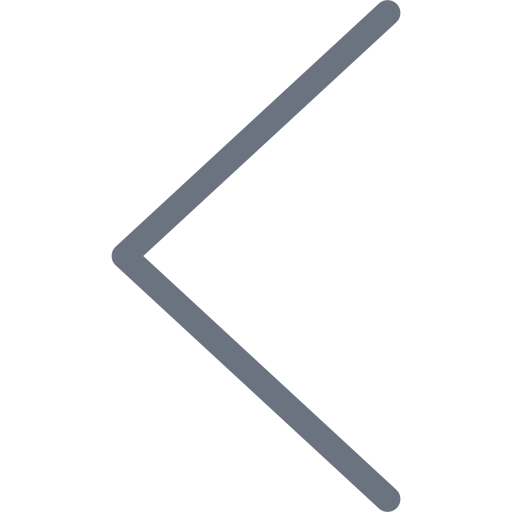
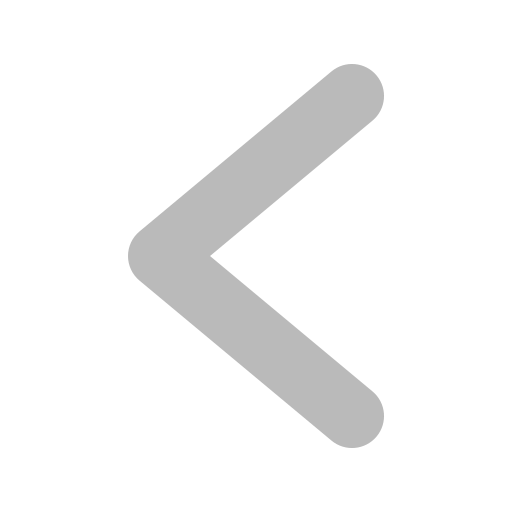
fix font and color

Changed region(s): [[0.2188, 0.0, 0.7812, 1.0]]

diff --git a/src/components/homepage/Balance.css b/src/components/homepage/Balance.css
@@ -18,10 +18,11 @@
     align-items: center;
     gap: 20px;
     font-weight: 600;
+    color: #9AA3A8;
 }
 
 .bitcoinImageDiv>p {
-    color: #a5a5ad;
+    color: #DCDCDC;
     font-weight: 600;
 }
 
@@ -32,7 +33,7 @@
 
 .btcAmt {
     margin-top: 10px;
-    color: rgb(47, 44, 44);
+    color: #5D646A;
     font-size: 24px;
 }
 
@@ -45,13 +46,13 @@
 
 .dollarAmt>h4 {
     font-size: 18px;
-    color: #a5a5ad;
+    color: #D4DADA;
     font-size: 16px;
 }
 
 .dollarAmt>div {
     padding: 2px 6px;
-    background-color: #E02626;
+    background-color: #E63262;
     border-radius: 16px;
     font-weight: 500;
     color: white;
@@ -65,7 +66,7 @@
 
 .downImage {
     width: 40px;
-    height: 20px;
+    height: 25px;
     cursor: pointer;
 }
 
@@ -89,7 +90,7 @@
 
 .activeSort {
     color: white !important;
-    background-color: #6B7280;
+    background-color: #ADB3BF;
     padding: 2px 10px;
     border-radius: 16px;
 }

diff --git a/src/components/homepage/Header.css b/src/components/homepage/Header.css
@@ -17,7 +17,8 @@
 
 .mainHeader>h4 {
     font-size: 26px;
-    color: #6B7280;
+    /* font-weight: 500; */
+    color: #5F686F;
 }
 
 .mainHeader>div {
@@ -38,13 +39,13 @@
     width: 4px;
     height: 4px;
     border-radius: 100%;
-    background-color: #9a9aa1;
+    background-color: #BDBDBD;
 }
 
 .dropDown {
     position: absolute;
     width: 190px;
-    background-color: #c2c2c9;
+    background-color: #EAEAEA;
     left: -190px;
     top: 40px;
     border-radius: 16px;
@@ -59,7 +60,7 @@
 }
 
 .dropDown>div {
-    font-size: 18px;
+    font-size: 16px;
     font-weight: 600;
     display: flex;
     justify-content: space-between;

diff --git a/src/components/homepage/Graph.jsx b/src/components/homepage/Graph.jsx
@@ -38,7 +38,7 @@ const Graph = () => {
                     <XAxis axisLine={false} dataKey="name" tick={false} />
                     <YAxis axisLine={false} tick={false} />
                     <Tooltip />
-                    <Area type="monotone" dataKey="USD" stroke="#F5B3C4" fill="#F5B3C4" />
+                    <Area type="monotone" dataKey="USD" stroke="#F0A236" fill="#FFF6ED" />
                 </AreaChart>
             </ResponsiveContainer>
         </div>

diff --git a/src/components/homepage/Buy.css b/src/components/homepage/Buy.css
@@ -17,16 +17,19 @@
     gap: 10px;
     align-items: center;
     cursor: pointer;
+    color: #5F686F;
     margin-bottom: 30px;
+    font-weight: 700;
+    font-size: 14px
 }
 
 .buyMainDiv>div:first-child:hover {
-    background-color: rgb(181, 181, 211);
+    background-color: rgb(138, 158, 219);
     color: white;
 }
 
 .buyMainDiv>div:last-child:hover {
-    background-color: pink;
+    background-color: rgb(99, 222, 134);
     color: white;
 }
 

diff --git a/src/App.css b/src/App.css
@@ -3,9 +3,9 @@
   justify-content: center;
   align-items: center;
   padding-top: 30px;
-  background-color: #6B7280;
+  background-color: #E5E9F2;
   height: 100vh;
-  font-family: 'Switzer';
+  font-family: 'Inter', sans-serif;
 }
 
 @media (max-width: 700px) {

diff --git a/src/components/homepage/Buy.jsx b/src/components/homepage/Buy.jsx
@@ -1,6 +1,6 @@
 import "./Buy.css"
 import blueDollar from "../../img/blue-dollar.png"
-import pinkDollar from "../../img/pink-dollar.png"
+import pinkDollar from "../../img/green-dollar.png"
 
 const Buy = () => {
     return (

diff --git a/src/index.css b/src/index.css
@@ -1,4 +1,4 @@
-@import url('https://fonts.cdnfonts.com/css/switzer');
+@import url('https://fonts.googleapis.com/css2?family=Inter:wght@400;500;600;700&display=swap');
 
 body {
   margin: 0;

diff --git a/src/pages/Homepage.css b/src/pages/Homepage.css
@@ -1,7 +1,7 @@
 .homepageDiv {
     width: 350px;
     height: 95vh;
-    background-color: #f3f3ff;
+    background-color: #F0F4F7;
     border-radius: 20px;
     position: relative;
 }

diff --git a/src/components/homepage/Graph.css b/src/components/homepage/Graph.css
@@ -24,4 +24,5 @@
     gap: 10px;
     align-items: center;
     font-size: 12px;
+    color: #D4D3D9;
 }
